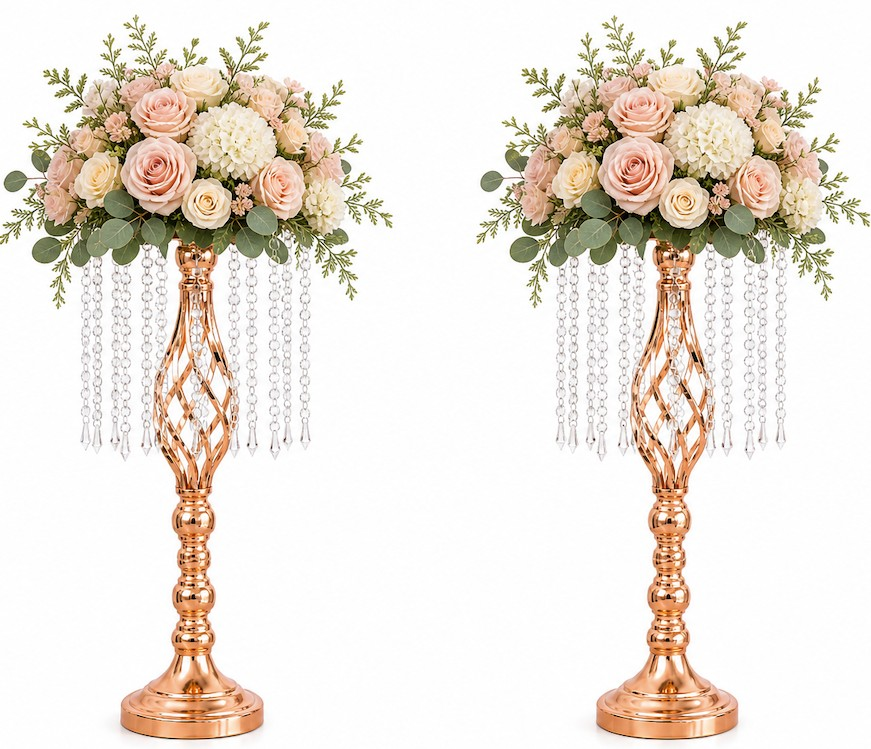
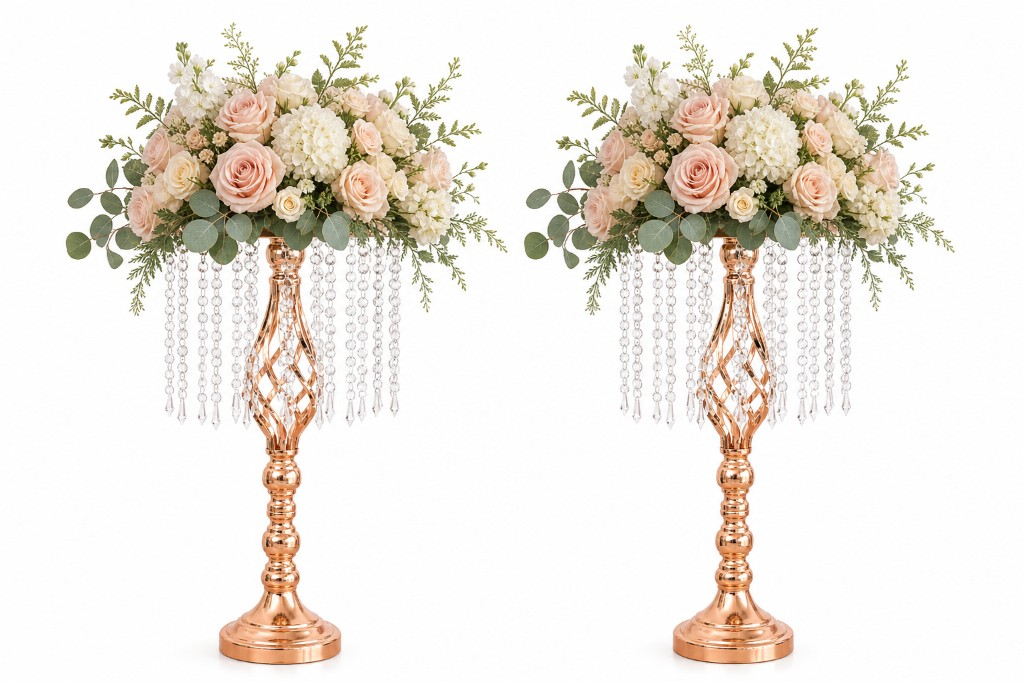
Polish floor plans, fix text widths, update product image
- Fix built-in seating U-shape and bar L-shape on rooftop
- Center outdoor zone with house/pool on ground floor
- Simplify ceremony to straight rows with angle note
- Update cake floor plan with proper layout and wall art
- Update food station with glass walls and context labels
- Replace gold flower stand crystal image
- Soften floral reference language
- Remove max-width constraints on text for consistent widths
- Bump floor plan text sizes via CSS

diff --git a/index.html b/index.html
@@ -181,7 +181,6 @@
   .category-vision {
     font-size: 0.9rem;
     color: var(--text-light);
-    max-width: 800px;
     line-height: 1.8;
   }
 
@@ -200,7 +199,6 @@
   .subgroup p {
     font-size: 0.85rem;
     color: var(--text-light);
-    max-width: 700px;
   }
 
   /* ── Setup Blueprint ── */
@@ -633,9 +631,6 @@
     border-radius: var(--radius);
     overflow: hidden;
     background: var(--white);
-    max-width: 680px;
-    margin-left: auto;
-    margin-right: auto;
   }
   .floor-plan-label {
     background: linear-gradient(135deg, var(--gold-pale) 0%, var(--cream) 100%);
@@ -1223,38 +1218,36 @@
 
         <!-- Kitchen room outline — individual walls -->
         <!-- Top wall: solid -->
-        <line x1="40" y1="40" x2="460" y2="40" stroke="#3D3229" stroke-width="2.5"/>
+        <line x1="90" y1="40" x2="510" y2="40" stroke="#3D3229" stroke-width="2.5"/>
         <!-- Right wall: solid -->
-        <line x1="460" y1="40" x2="460" y2="300" stroke="#3D3229" stroke-width="2.5"/>
+        <line x1="510" y1="40" x2="510" y2="300" stroke="#3D3229" stroke-width="2.5"/>
         <!-- Left wall: glass (green dashed) -->
-        <line x1="40" y1="40" x2="40" y2="300" stroke="#9CAF88" stroke-width="2" stroke-dasharray="8 5" opacity="0.6"/>
+        <line x1="90" y1="40" x2="90" y2="300" stroke="#9CAF88" stroke-width="2" stroke-dasharray="8 5" opacity="0.6"/>
         <!-- Bottom wall: first 2/3 glass, last 1/3 open -->
-        <line x1="40" y1="300" x2="320" y2="300" stroke="#9CAF88" stroke-width="2" stroke-dasharray="8 5" opacity="0.6"/>
+        <line x1="90" y1="300" x2="370" y2="300" stroke="#9CAF88" stroke-width="2" stroke-dasharray="8 5" opacity="0.6"/>
 
         <!-- Kitchen counter — along top wall -->
-        <rect x="50" y="50" width="300" height="30" rx="2" fill="rgba(196,162,101,0.2)" stroke="#C4AD8B" stroke-width="1.5"/>
-        <text x="200" y="70" text-anchor="middle" fill="#9B8E80" font-size="8" font-weight="400">KITCHEN COUNTER</text>
+        <rect x="100" y="50" width="300" height="30" rx="2" fill="rgba(196,162,101,0.2)" stroke="#C4AD8B" stroke-width="1.5"/>
+        <text x="250" y="70" text-anchor="middle" fill="#9B8E80" font-size="8" font-weight="400">KITCHEN COUNTER</text>
 
         <!-- Kitchen island — center -->
-        <rect x="120" y="110" width="200" height="60" rx="3" fill="rgba(196,162,101,0.12)" stroke="#C4AD8B" stroke-width="1.5"/>
-        <text x="220" y="145" text-anchor="middle" fill="#9B8E80" font-size="8" font-weight="400">ISLAND / BAR SEATING</text>
+        <rect x="170" y="110" width="200" height="60" rx="3" fill="rgba(196,162,101,0.12)" stroke="#C4AD8B" stroke-width="1.5"/>
+        <text x="270" y="145" text-anchor="middle" fill="#9B8E80" font-size="8" font-weight="400">ISLAND / BAR SEATING</text>
 
         <!-- Cake table — round, bottom-right -->
-        <circle cx="400" cy="230" r="40" fill="rgba(232,196,196,0.2)" stroke="#E8C4C4" stroke-width="2"/>
-        <g transform="rotate(90 400 230)">
-          <text x="400" y="225" text-anchor="middle" fill="#6B5D4F" font-size="9" font-weight="600">CAKE</text>
-          <text x="400" y="240" text-anchor="middle" fill="#6B5D4F" font-size="9" font-weight="600">TABLE</text>
+        <circle cx="450" cy="230" r="40" fill="rgba(232,196,196,0.2)" stroke="#E8C4C4" stroke-width="2"/>
+        <g transform="rotate(90 450 230)">
+          <text x="450" y="225" text-anchor="middle" fill="#6B5D4F" font-size="9" font-weight="600">CAKE</text>
+          <text x="450" y="240" text-anchor="middle" fill="#6B5D4F" font-size="9" font-weight="600">TABLE</text>
         </g>
 
         <!-- Wall art — flush against right wall -->
-        <rect x="443" y="195" width="14" height="70" rx="2" fill="#E8DFD4" stroke="#C4AD8B" stroke-width="1"/>
-        <g transform="rotate(90 450 230)">
-          <text x="450" y="233" text-anchor="middle" fill="#9B8E80" font-size="7" font-weight="400" dominant-baseline="central">Wall art</text>
-        </g>
+        <rect x="493" y="195" width="14" height="70" rx="2" fill="#E8DFD4" stroke="#C4AD8B" stroke-width="1"/>
+        <text x="500" y="230" text-anchor="middle" dominant-baseline="central" fill="#9B8E80" font-size="7" font-weight="400" transform="rotate(90 500 230)">Wall art</text>
 
         <!-- Labels below -->
-        <text x="180" y="320" text-anchor="middle" fill="#C4AD8B" font-size="8" font-weight="400" opacity="0.5">↓ RECEPTION</text>
-        <text x="390" y="320" text-anchor="middle" fill="#C4AD8B" font-size="8" font-weight="400" opacity="0.5">↓ SMALL DINING</text>
+        <text x="230" y="320" text-anchor="middle" fill="#C4AD8B" font-size="8" font-weight="400" opacity="0.5">↓ RECEPTION</text>
+        <text x="440" y="320" text-anchor="middle" fill="#C4AD8B" font-size="8" font-weight="400" opacity="0.5">↓ SMALL DINING</text>
       </svg>
       <div class="fp-legend">
         <div class="fp-legend-item"><div class="fp-legend-swatch" style="background:rgba(232,196,196,0.3);border-color:#E8C4C4;border-radius:50%"></div>Cake table</div>
@@ -1421,7 +1414,7 @@
             <span class="card-footer-value">Donate to Mindy or keep for condo</span>
           </div>
           <div class="mindy-note">
-            <strong>Floral Arrangement Reference:</strong> This image shows the exact arrangement style I want on all gold stands (with or without crystals). Flowers: blush pink roses, cream/ivory roses, white hydrangeas, white stock flowers (tall spikes in back for height), blush filler flowers. Greenery: eucalyptus and fern foliage. Ask florist to scale down the arrangement size by ~20% so it doesn't overflow the vase as much — keep it compact and contained on top.
+            <strong>Floral Arrangement Reference:</strong> This image shows the arrangement style I'd like on all gold stands. Flowers: blush pink roses, cream/ivory roses, white hydrangeas, white stock flowers (tall spikes in back for height), blush filler flowers. Greenery: eucalyptus and fern foliage. Ideally the arrangement size would be scaled down by ~20% so it doesn't overflow the vase as much — keeping it compact and contained on top.
           </div>
         </div>
       </div>